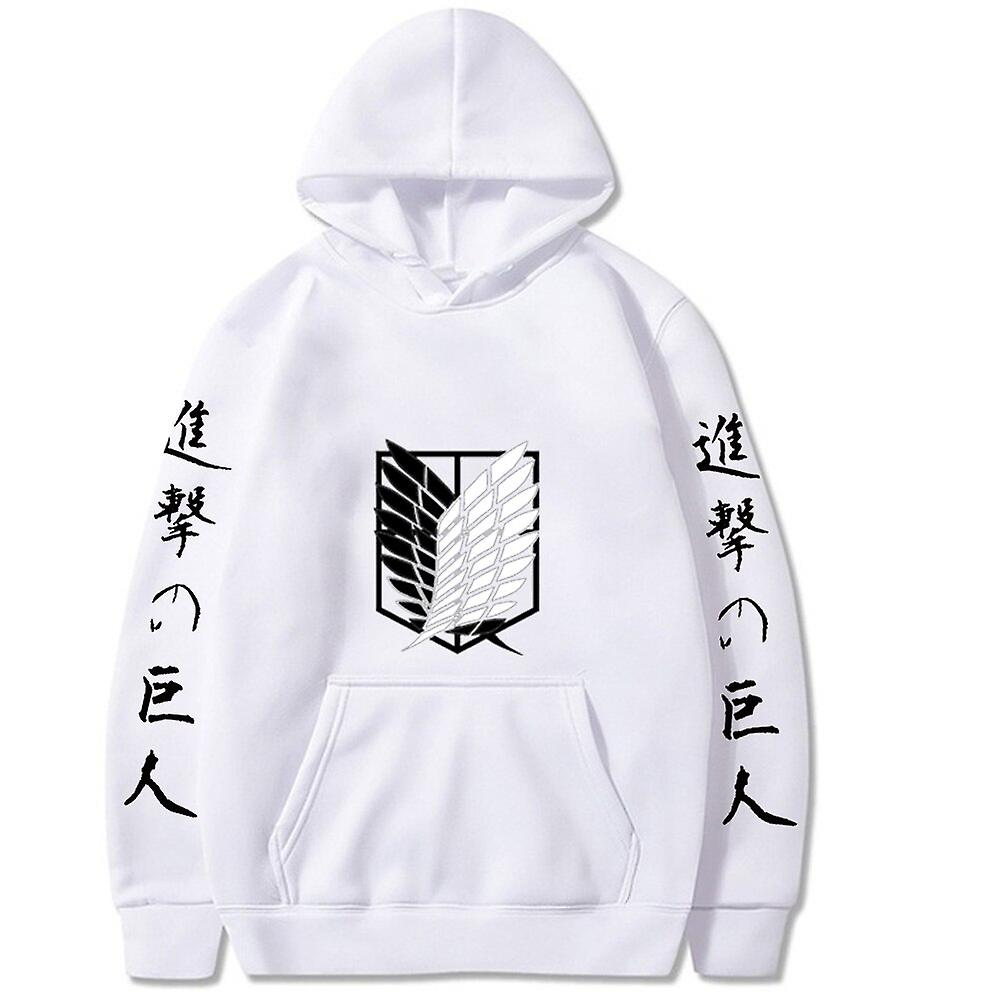
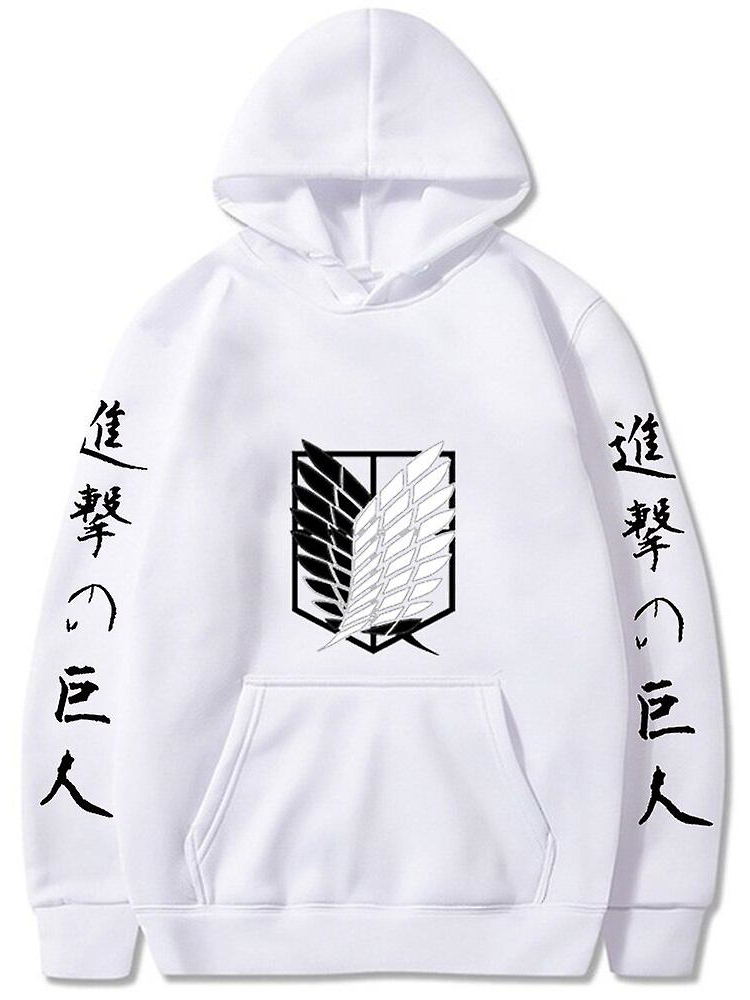
reduced the size of plates and imgs to fit 3 products in desktop screens. Affecting Tshirts page and Hoodies page

diff --git a/css/products.css b/css/products.css
@@ -17,7 +17,7 @@
     justify-content: center;
 }
 .plate {
-    width: 600px;
+    width: 380px;
     padding: 50px;
     display: flex;
     flex-direction: column;
@@ -29,7 +29,7 @@
     font-size: 30px;
 }
 .product-image img{
-    width: 400px;
+    width: 300px;
     border-radius: 20px;
     transition: translate 500ms;
 }

diff --git a/index.html b/index.html
@@ -433,7 +433,6 @@
                 notification.classList.remove("shownoti")
                 notification.classList.add("noshownoti")
             }, 6000);
-            notification.classList.remove("noshownoti")
         }
         notify()
     }
